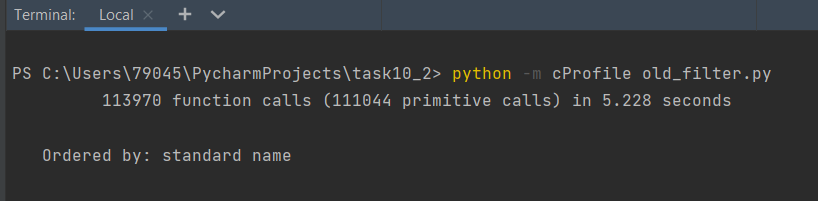
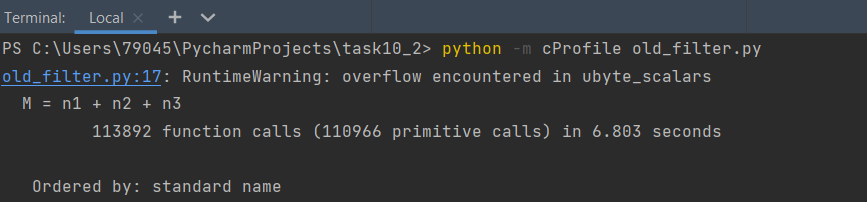
add second screen. part 6 + new res for old_filter

diff --git a/old_filter.py b/old_filter.py
@@ -14,7 +14,7 @@ while i < a - 11:
                 n1 = arr[n][n1][0]
                 n2 = arr[n][n1][1]
                 n3 = arr[n][n1][2]
-                M = int(n1) + int(n2) + int(n3)
+                M = n1 + n2 + n3
                 s += M
         s = int(s // 100)
         for n in range(i, i + 10):
